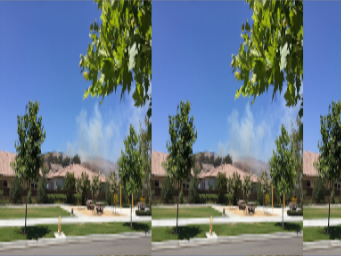
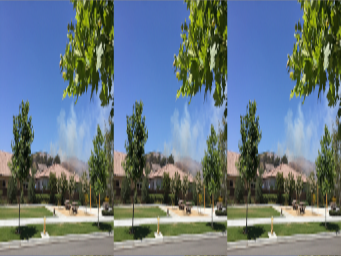
trilinear!

diff --git a/Source.cpp b/Source.cpp
@@ -364,28 +364,25 @@ void TestMipMatrix(const ImageMips& texture, const Matrix22& uvtransform, int wi
 
             Vector2 uv = percent * uvtransform;
 
-            // TODO: do a version that samples from mip0 always.
-            // TODO: i guess the options would be: no mips nearest, mip nearest, mip bilinear, mip trilinear?
-
-            // TODO: choose nearest mip level by calculating mip and rounding!
-            // TODO: wrap uv's? or no?
-
-            // TODO: is it correct to round mip like this?
-
-            // TODO: wrap around is doing something weird on the vertical axis with y scale of 1. look into it!
+            // TODO: after calculating mip, do you round it or floor it?
 
             nearestMip0[outputIndex] = SampleNearest(texture[0], uv);
             nearestMip[outputIndex] = SampleNearest(texture[int(mip)], uv);
             bilinear[outputIndex] = SampleBilinear(texture[int(mip)], uv);
 
+            // TODO: only do the second bilinear if mip+1 is in range, else copy bilinear. Or do we need a SampleTrilinear function?
+            RGBU8 bilinearNextMip = SampleBilinear(texture[std::min(int(mip+1), (int)texture.size()-1)], uv);
+            trilinear[outputIndex] = lerp(bilinear[outputIndex], bilinearNextMip, std::fmodf(mip, 1.0f));
+
             ++outputIndex;
         }
     }
 
-    // TODO: combine the 3 images. vertically? and save the result
+    // TODO: combine the images and save the result? or leave them separate?
     stbi_write_png("out/nearest0.png", width, height, 3, nearestMip0.data(), 0);
     stbi_write_png("out/nearest.png", width, height, 3, nearestMip.data(), 0);
     stbi_write_png("out/bilinear.png", width, height, 3, bilinear.data(), 0);
+    stbi_write_png("out/trilinear.png", width, height, 3, trilinear.data(), 0);
 }
 
 int main(int argc, char **argv)
@@ -405,12 +402,11 @@ int main(int argc, char **argv)
         Matrix22 mat =
         {
             {
-                {2.25f, 0.0f},
+                {3.0f, 0.0f},
                 {0.0f, 1.0f},
             }
         };
 
-        // TODO: nearest is mirroring with colors.png (?!) and bilinear is all sorts of wrong. check it out.
         TestMipMatrix(texture, mat, texture[0].width, texture[0].height);
     }
 
